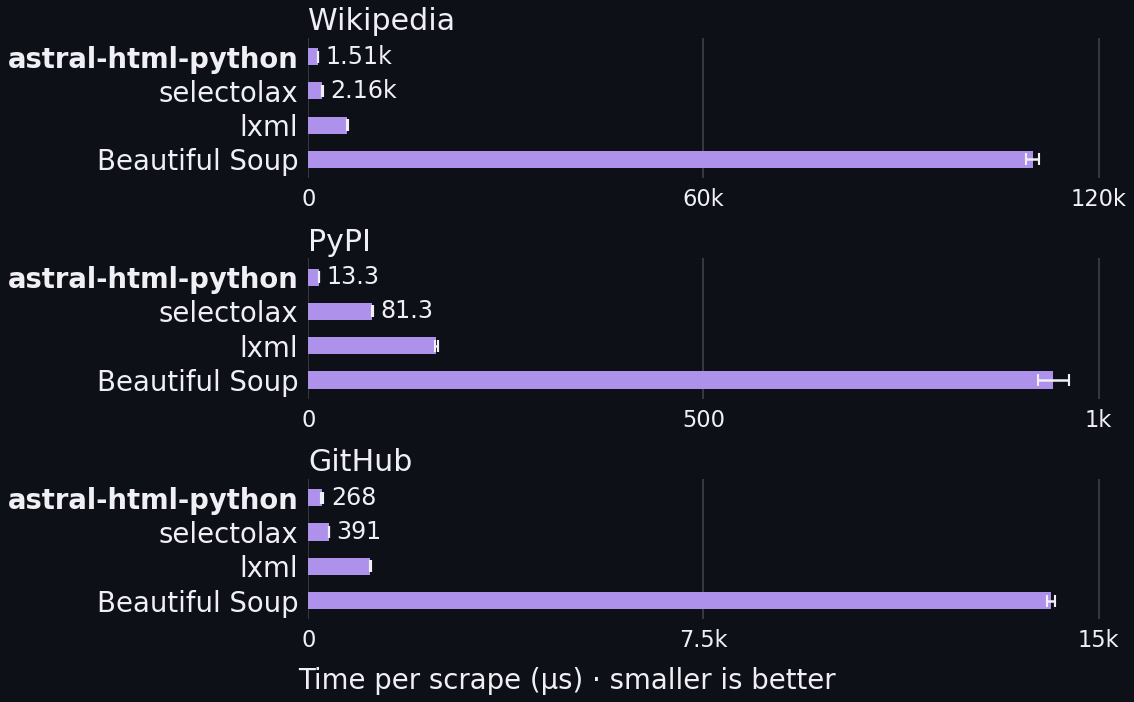
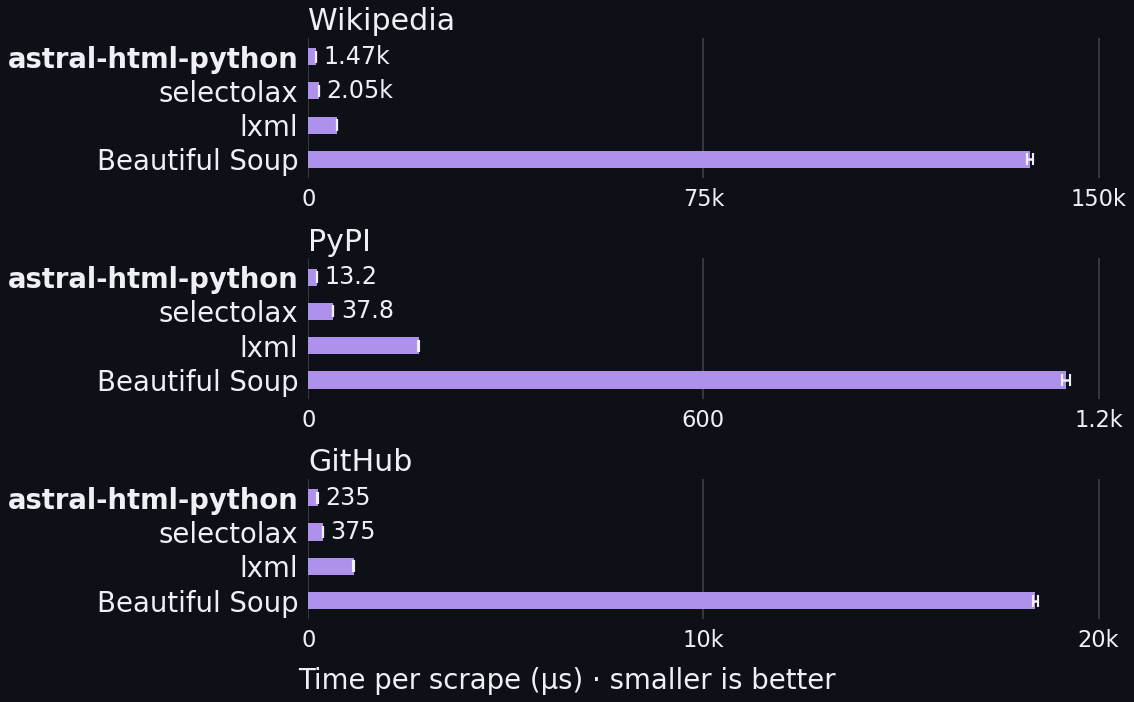
Refresh the published scraping benchmarks and charts

diff --git a/benchmarks/README.md b/benchmarks/README.md
@@ -10,6 +10,9 @@ The three snapshots below exercise page-specific selectors. A separate
 benchmark compares link extraction on 1,867 distinct HTML bodies across seven page
 types. [Large-corpus benchmark](wcxb.md)
 
+We also compared native and stable-ABI wheels on 140 pages using CPython 3.14
+and 3.15. [Wheel ABI comparison](https://github.com/astral-experiments/astral-html-python/blob/d52265197b7bcc11f43afcab280e5e5306d20c61/results/wheel-abi/wheel-abi.md)
+
 | Snapshot | HTML bytes | All `a` | All `a[href]` | Filtered links | Filtered CSS selector |
 | --- | ---: | ---: | ---: | ---: | --- |
 | PyPI package index | 6,144 | 16 | 16 | 8 | `body > a[data-requires-python]` |
@@ -62,27 +65,29 @@ Parsing and full scrapes create a new tree each iteration. Automatic collection
 can reclaim earlier trees during timing. Any cleanup after the measured batch
 is outside the timer. The last column reuses one parsed document.
 
-We measured version 0.1.0 on a Linux x86-64 AMD EPYC Milan VM with glibc
-2.39 and CPython 3.14.8. We built the release wheel with Rust 1.99.0 and
-maturin 1.15.0. Other libraries were selectolax 1.0.0 (Lexbor), lxml 6.1.3
+We measured astral-html-python 0.0.1 on a GitHub-hosted x86_64 runner with
+Ubuntu 24.04.5 LTS and an AMD EPYC 7763 64-Core Processor. We pinned the
+workers to logical CPU 0. We built the release wheel from the source
+distribution with Rust 1.99.0 and maturin 1.15.0. The run used CPython 3.14.9
+and glibc 2.39. The other libraries were selectolax 1.0.0 (Lexbor), lxml 6.1.3
 with cssselect 1.5.0, and Beautiful Soup 4.15.0 with its lxml backend.
-[Parser revision `da95d37`](https://github.com/astral-experiments/astral-html-python/tree/da95d372ee9e6053d6b51e7d92422fd154d64532) ·
-[Runner at `864be59`](https://github.com/astral-experiments/astral-html-python/blob/864be5964185b5d77d5b3b8768c8952a49c9c0b0/benchmarks/run.py)
+[Parser and runner revision `98a6a38`](https://github.com/astral-experiments/astral-html-python/tree/98a6a38dcc5e3f85e77a11139e38927d511430a4) ·
+[Measurement run](https://github.com/astral-experiments/astral-html-python/actions/runs/40938603187)
 
 | Page | Parser | Parse | Parse + all links | Parse + filtered links | Filtered on existing tree |
 | --- | --- | ---: | ---: | ---: | ---: |
-| PyPI | astral-html | 8.51 ± 0.05 | 14.8 ± 0.08 | 13.3 ± 0.2 | 3.93 ± 0.02 |
-| PyPI | selectolax (Lexbor) | 55.9 ± 1 | 85.4 ± 0.7 | 81.3 ± 0.8 | 8.24 ± 0.05 |
-| PyPI | lxml | 56.1 ± 0.6 | 167 ± 3 | 162 ± 2 | 80.6 ± 2 |
-| PyPI | Beautiful Soup | 768 ± 20 | 909 ± 7 | 943 ± 20 | 117 ± 0.9 |
-| GitHub | astral-html | 240 ± 20 | 258 ± 1 | 268 ± 20 | 20.7 ± 0.08 |
-| GitHub | selectolax (Lexbor) | 345 ± 4 | 465 ± 20 | 391 ± 1 | 27.8 ± 1 |
-| GitHub | lxml | 955 ± 8 | 1,330 ± 6 | 1,180 ± 2 | 169 ± 5 |
-| GitHub | Beautiful Soup | 12,000 ± 80 | 13,300 ± 90 | 14,100 ± 80 | 1,870 ± 30 |
-| Wikipedia | astral-html | 1,140 ± 20 | 1,610 ± 5 | 1,510 ± 9 | 361 ± 4 |
-| Wikipedia | selectolax (Lexbor) | 1,890 ± 20 | 2,910 ± 50 | 2,160 ± 30 | 214 ± 2 |
-| Wikipedia | lxml | 4,450 ± 10 | 8,780 ± 40 | 5,930 ± 60 | 1,310 ± 7 |
-| Wikipedia | Beautiful Soup | 81,900 ± 400 | 90,300 ± 300 | 110,000 ± 1,000 | 26,900 ± 300 |
+| PyPI | astral-html | 9.16 ± 0.8 | 14.8 ± 0.09 | 13.2 ± 0.07 | 4.28 ± 0.03 |
+| PyPI | selectolax (Lexbor) | 23.3 ± 0.2 | 43.1 ± 0.2 | 37.8 ± 0.1 | 9.78 ± 0.3 |
+| PyPI | lxml | 54.6 ± 0.3 | 177 ± 2 | 168 ± 0.8 | 91.6 ± 0.3 |
+| PyPI | Beautiful Soup | 949 ± 3 | 1,120 ± 4 | 1,150 ± 6 | 148 ± 0.7 |
+| GitHub | astral-html | 207 ± 2 | 260 ± 10 | 235 ± 2 | 22.3 ± 0.1 |
+| GitHub | selectolax (Lexbor) | 331 ± 0.8 | 450 ± 4 | 375 ± 0.9 | 27.6 ± 0.2 |
+| GitHub | lxml | 895 ± 2 | 1,340 ± 8 | 1,150 ± 9 | 178 ± 0.5 |
+| GitHub | Beautiful Soup | 16,500 ± 400 | 17,400 ± 60 | 18,400 ± 70 | 2,170 ± 10 |
+| Wikipedia | astral-html | 1,090 ± 4 | 1,570 ± 3 | 1,470 ± 4 | 394 ± 10 |
+| Wikipedia | selectolax (Lexbor) | 1,810 ± 10 | 3,020 ± 8 | 2,050 ± 5 | 215 ± 1 |
+| Wikipedia | lxml | 4,230 ± 10 | 9,170 ± 20 | 5,450 ± 60 | 1,110 ± 2 |
+| Wikipedia | Beautiful Soup | 104,000 ± 300 | 115,000 ± 600 | 137,000 ± 500 | 32,500 ± 100 |
 
 The project README plots the **Parse + filtered links** column. Each page has
 its own zero-based time axis. Bars show the mean in microseconds and whiskers
@@ -90,8 +95,8 @@ span one standard error on either side. To redraw the chart from the
 [recorded means and standard errors](filtered-links.json), run
 `uv run --script benchmarks/plot.py` from the repository root.
 
-Retaining only `a` subtrees and extracting all links took 14.5 ± 0.2 µs on
-PyPI, 233 ± 1 µs on GitHub, and 1,520 ± 20 µs on Wikipedia. The filtered
+Retaining only `a` subtrees and extracting all links took 14.1 ± 0.06 µs on
+PyPI, 222 ± 2 µs on GitHub, and 1,460 ± 5 µs on Wikipedia. The filtered
 selectors rely on ancestors dropped by partial parsing.
 
 ## All anchors on an existing tree
@@ -102,18 +107,15 @@ The partial tree was built with `parse(html, retain_subtrees="a")`.
 
 | Parser | PyPI (µs) | GitHub (µs) | Wikipedia (µs) |
 | --- | ---: | ---: | ---: |
-| astral-html | 2.11 ± 0.08 | 11.7 ± 0.5 | 162 ± 4 |
-| astral-html, link subtrees | 2.13 ± 0.08 | 10.9 ± 0.4 | 159 ± 8 |
-| selectolax (Lexbor) | 5.15 ± 0.2 | 28.6 ± 0.9 | 362 ± 10 |
-| lxml | 21.1 ± 0.9 | 112 ± 6 | 1,470 ± 20 |
-| Beautiful Soup | 39.3 ± 2 | 382 ± 10 | 3,270 ± 200 |
+| astral-html | 5.45 ± 0.04 | 28.7 ± 0.08 | 445 ± 2 |
+| astral-html, link subtrees | 5.45 ± 0.06 | 26.7 ± 0.09 | 429 ± 2 |
+| selectolax (Lexbor) | 14.4 ± 0.08 | 87.8 ± 0.4 | 1,180 ± 3 |
+| lxml | 66 ± 0.3 | 333 ± 1 | 4,680 ± 8 |
+| Beautiful Soup | 113 ± 0.4 | 1,130 ± 3 | 9,520 ± 30 |
 
-Values are mean ± one standard error across 12 fresh processes per page.
-This run used a 0.0.1 release wheel built from the source distribution on
-macOS arm64 with CPython 3.14.8, Rust 1.99.0, and the locked benchmark
-dependencies. To reproduce, run
-`.venv/bin/python -I benchmarks/run.py --samples 12 --min-sample-ms 12`
-and read the `all anchors, existing tree` rows.
+Values are means ± one standard error from the same 12 worker processes per
+page as the full-scrape timings. Look for the `all anchors, existing tree`
+rows in the runner output.
 
 ## Retained memory
 
@@ -125,9 +127,9 @@ each RSS reading. Full and partial runs alternate order.
 
 | Page | Full tree | Link subtrees |
 | --- | ---: | ---: |
-| PyPI | 15.1 ± 0.01 | 9.79 ± 0.01 |
-| GitHub | 134 ± 0 | 39.6 ± 0 |
-| Wikipedia | 724 ± 0 | 295 ± 0 |
+| PyPI | 14.1 ± 0 | 8.75 ± 0 |
+| GitHub | 133 ± 0.009 | 38.9 ± 0 |
+| Wikipedia | 723 ± 0 | 295 ± 0 |
 
 A zero standard error means all seven readings agreed at the OS reporting
 resolution. The absolute RSS values depend on the allocator and process history.

diff --git a/benchmarks/wcxb.md b/benchmarks/wcxb.md
@@ -58,16 +58,16 @@ contribute the same measurements to both columns.
 
 | Parser | All 1,866 pages (µs/page ± SE) | Identical output on 617 pages (µs/page ± SE) |
 | --- | ---: | ---: |
-| astral-html-python | 792.7 ± 4.9 | 789.6 ± 7.9 |
-| selectolax (Lexbor) | 995.9 ± 10.2 | 934.7 ± 22.5 |
-| lxml | 2,943.6 ± 9.1 | 2,663.5 ± 17.4 |
-| Beautiful Soup (lxml) | 24,391.7 ± 66.1 | 20,096.9 ± 93.0 |
-| astral-html-python, link subtrees | 739.8 ± 7.3 | 754.9 ± 19.3 |
+| astral-html-python | 729.7 ± 1.2 | 716.4 ± 2.5 |
+| selectolax (Lexbor) | 961.2 ± 6.2 | 887.6 ± 13.8 |
+| lxml | 2,752.9 ± 5.6 | 2,485.7 ± 12.1 |
+| Beautiful Soup (lxml) | 31,498.0 ± 28.0 | 25,686.3 ± 28.0 |
+| astral-html-python, link subtrees | 680.7 ± 3.4 | 679.3 ± 10.2 |
 
-On the 617 pages with identical output, Astral's full-tree scrape took
-15.2% less time per page than Lexbor on average. The 95% confidence
-interval for that reduction was 11.0% to 19.3%, using paired worker timings
-and Student's t distribution. [Raw process timings](wcxb-samples.csv)
+On the 617 pages with identical output, Astral's full-tree scrape took 19.1%
+less time per page than Lexbor on average. The 95% confidence interval for
+that reduction was 16.6% to 21.7%, using paired worker timings and Student's t
+distribution. [Raw process timings](wcxb-samples.csv)
 
 Times are mean microseconds per page ± one standard error across ten fresh
 worker processes. Each worker shuffles pages within the identical-output and
@@ -78,12 +78,14 @@ collects garbage before timing each group and leaves cyclic GC enabled while
 scraping. Archive reads, decompression, output comparison, and warmup are
 outside the timer.
 
-We measured a native astral-html-python 0.1.0 release wheel built from the
-source distribution with Rust 1.99.0 and maturin 1.15.0. The run used
-CPython 3.14.8 on a Linux x86-64 AMD EPYC Milan VM with glibc 2.39, pinned
-to logical CPU 8. The other libraries were selectolax 1.0.0, lxml 6.1.3,
-cssselect 1.5.0, and Beautiful Soup 4.15.0 with the lxml backend.
-[Parser revision `bfb4136`](https://github.com/astral-experiments/astral-html-python/tree/bfb41367a78cf1ad76ed5e583b78770acd58689e)
+We measured astral-html-python 0.0.1 on a GitHub-hosted x86_64 runner with
+Ubuntu 24.04.5 LTS and an AMD EPYC 7763 64-Core Processor. We pinned the
+workers to logical CPU 0. We built the release wheel from the source
+distribution with Rust 1.99.0 and maturin 1.15.0. The run used CPython 3.14.9
+and glibc 2.39. The other libraries were selectolax 1.0.0 (Lexbor), lxml 6.1.3
+with cssselect 1.5.0, and Beautiful Soup 4.15.0 with its lxml backend.
+[Parser and runner revision `98a6a38`](https://github.com/astral-experiments/astral-html-python/tree/98a6a38dcc5e3f85e77a11139e38927d511430a4) ·
+[Measurement run](https://github.com/astral-experiments/astral-html-python/actions/runs/40938603187)
 
 ## Reproduce
 
